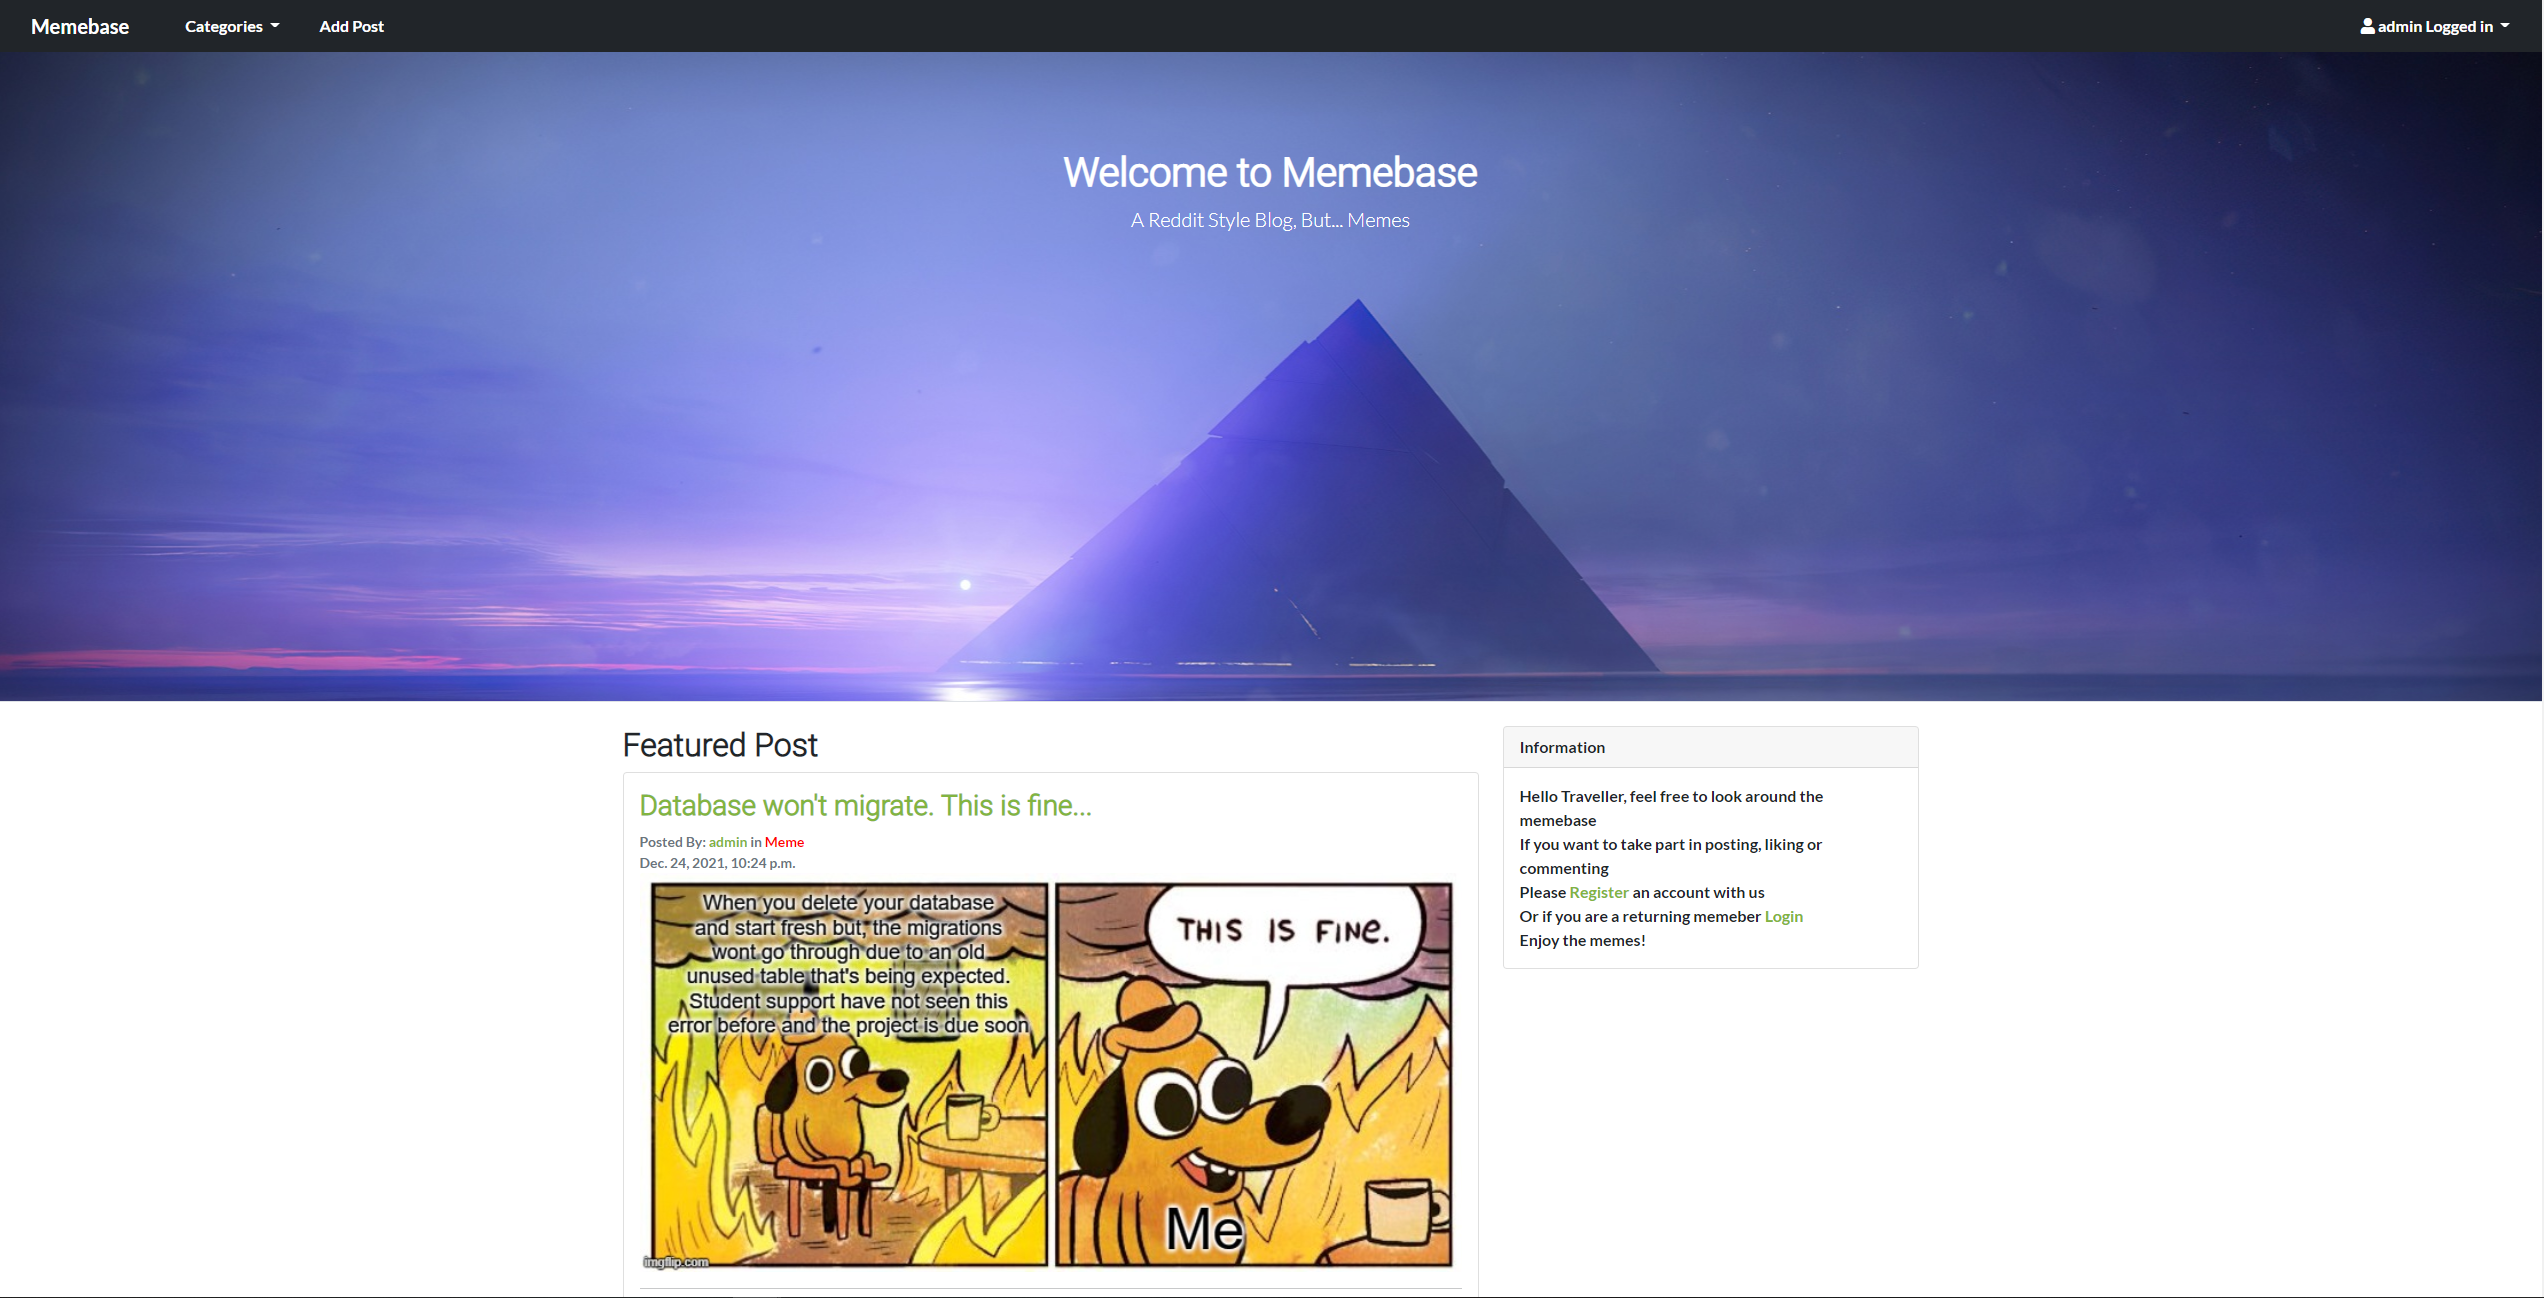
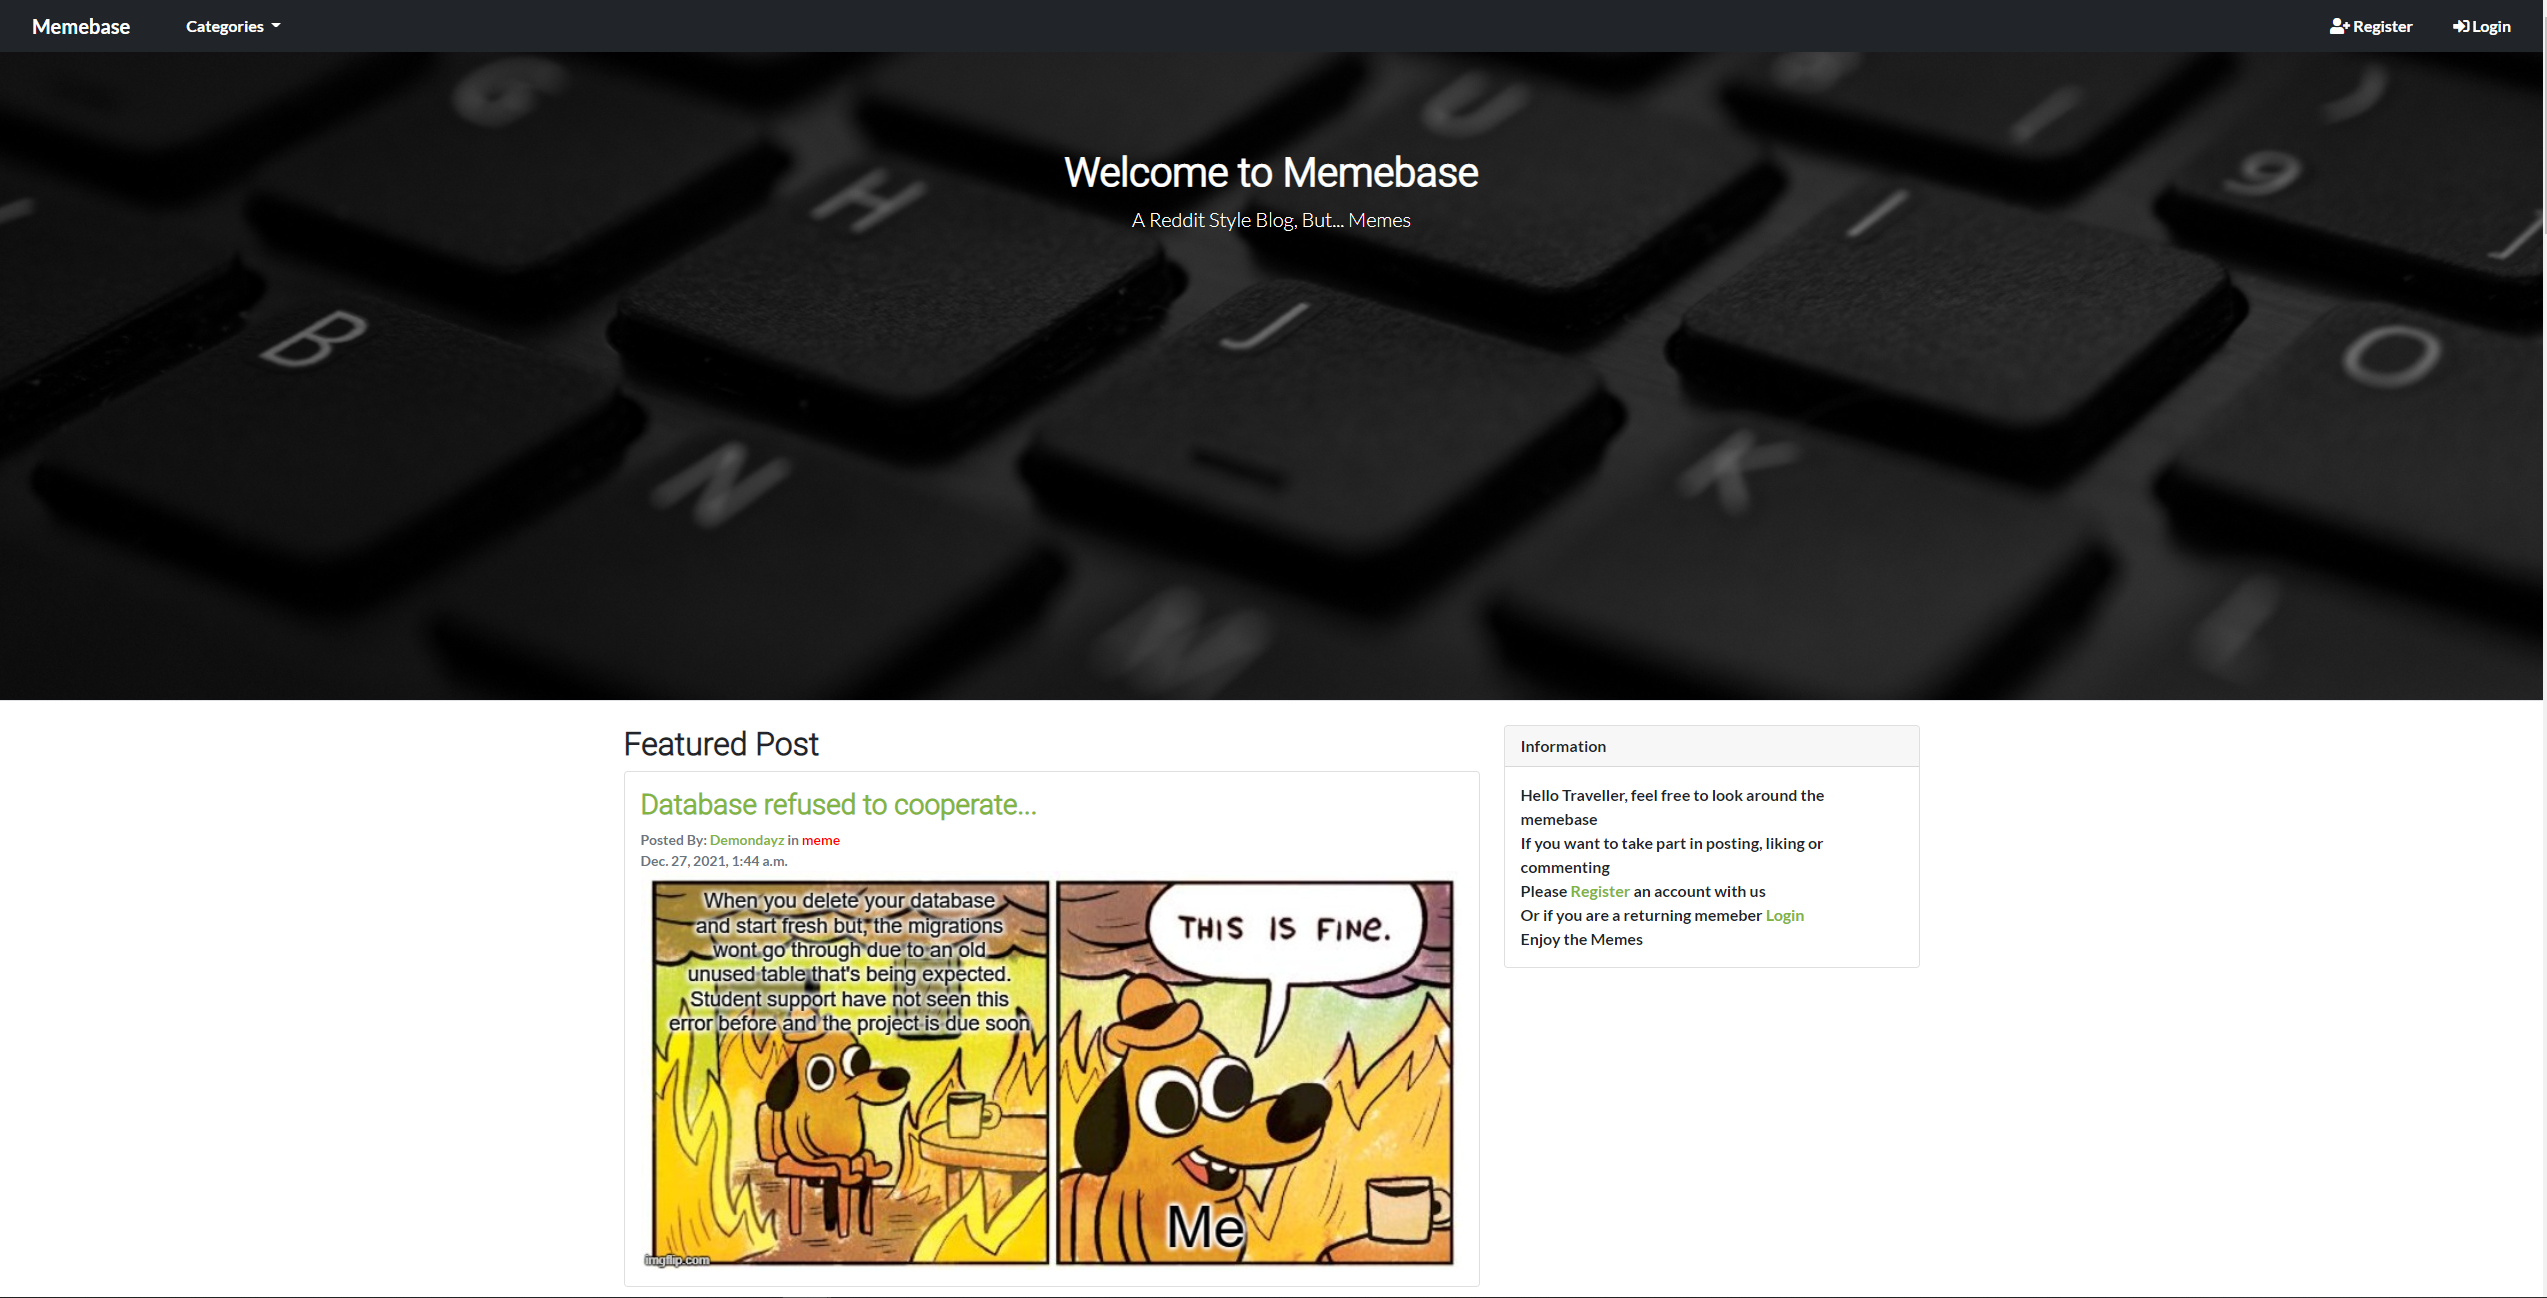
Edit readme file and image

diff --git a/README.md b/README.md
@@ -453,7 +453,7 @@ This fullstack application was deployed to GitHub pages, using Gitpod as a devel
 -   Used snippets from bootdey.com for [comments](https://www.bootdey.com/snippets/view/blog-comments#preview) and [User information](https://www.bootdey.com/snippets/view/Table-user-information#preview)
 -   Used snippet form bboostrap for a [footer](https://bbbootstrap.com/snippets/bootstrap-fixed-footer-template-social-icons-59664838)
 -   Unsplash images by Fakurian Design [first](https://unsplash.com/photos/HmgeiuZE0Iw), [second](https://unsplash.com/photos/nNLQGgWZD7Q)
--   [Wallpaperswide](http://wallpaperswide.com/destiny_2_beyond_light_2020_game_europa-wallpapers.html) for homepage image
+-   [Lukas Mayer](https://www.pexels.com/photo/black-computer-keyboard-785429/) for homepage image
 
 # Acknowledgements
 
